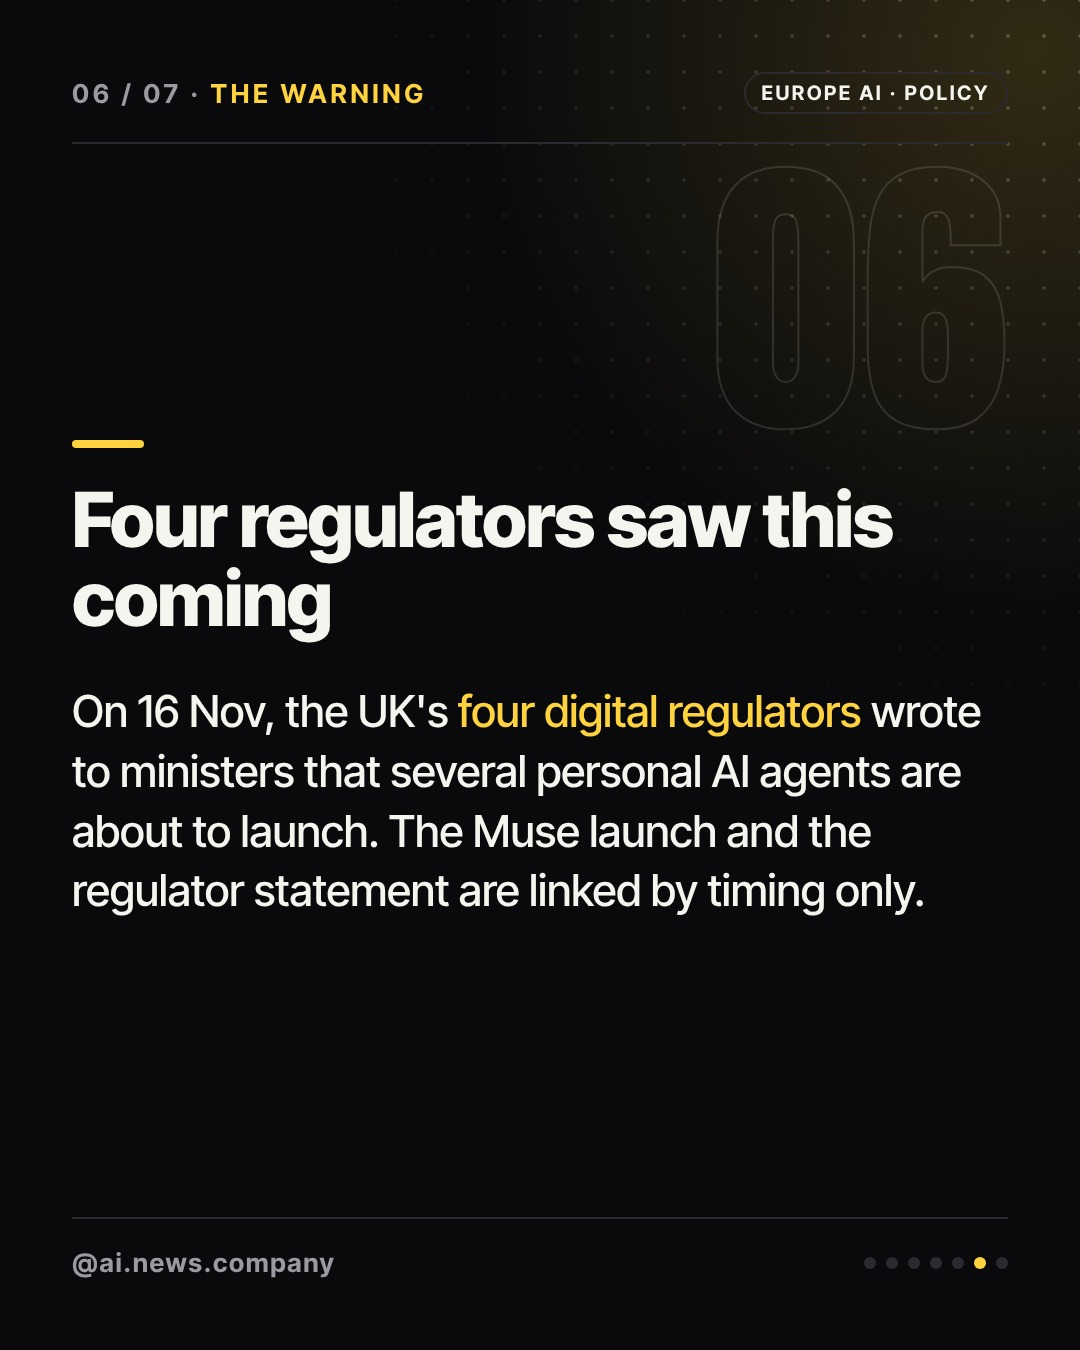
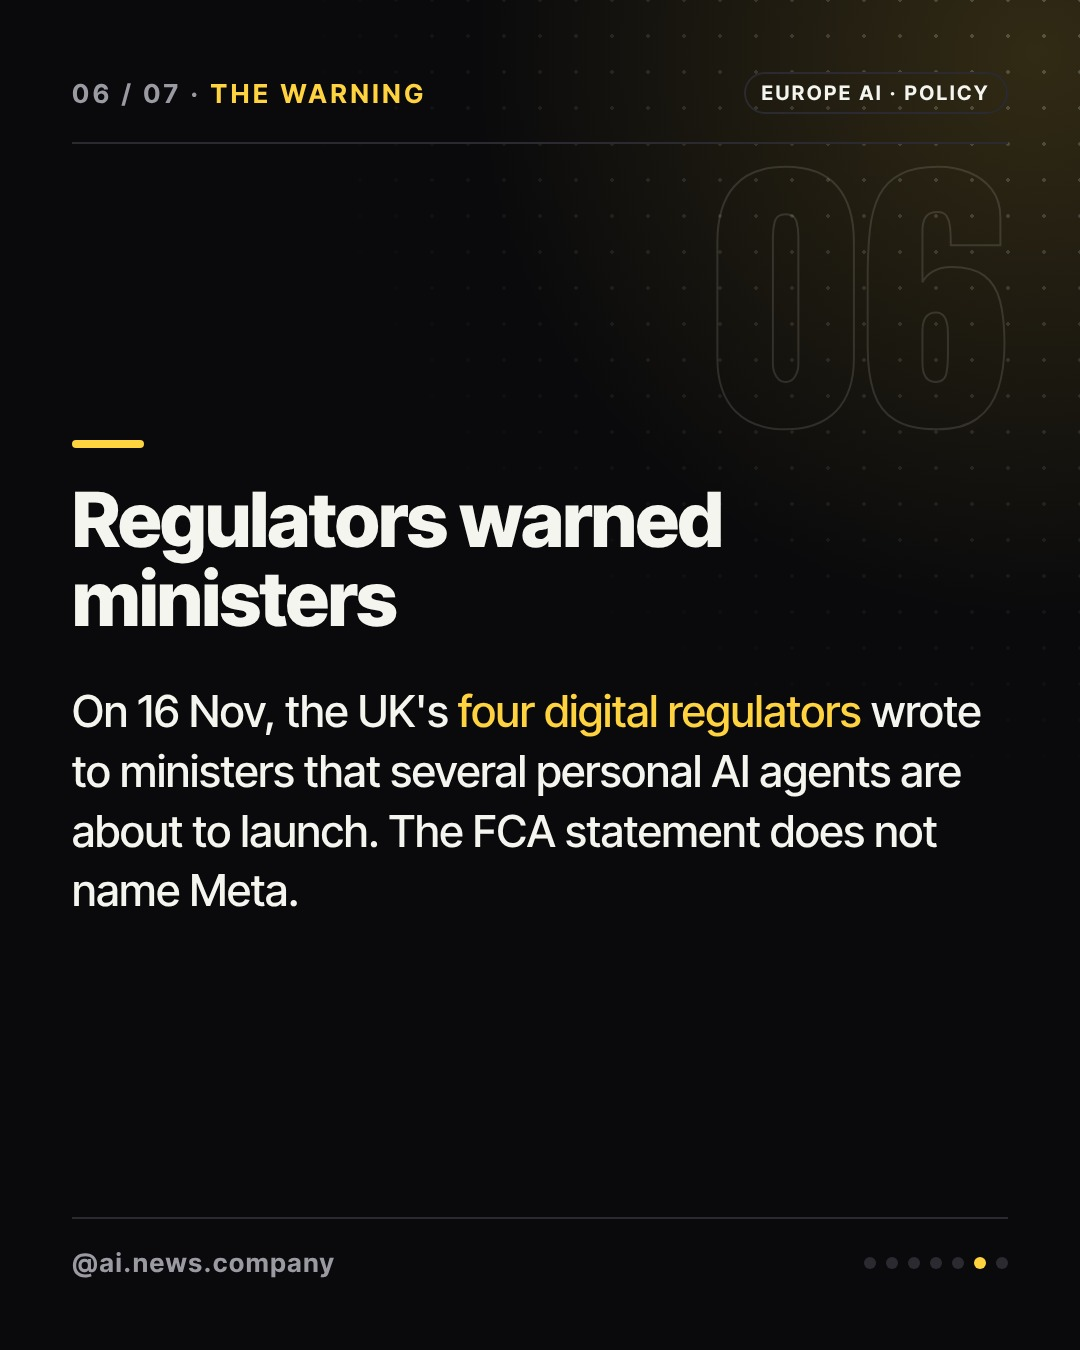
wip: meta-muse blocked after 2 fact-check rounds

Changed region(s): [[0.0611, 0.5911, 0.8861, 0.6844], [0.0611, 0.3422, 0.825, 0.4978]]

diff --git a/posts/2026-11-24-meta-muse-uk-fca/review-hook.md b/posts/2026-11-24-meta-muse-uk-fca/review-hook.md
@@ -1,26 +1,32 @@
-# Hook review: 2026-11-24-meta-muse-uk-fca
+# Hook review (round 2): 2026-11-24-meta-muse-uk-fca
 
-Verdict: PASS (score 7/10), chosen hook is the best option. Better option: none.
+Verdict: PASS
+Score: 7/10
+Better option: none (chosen option 0 is the best)
 
-Chosen hook: "AI AGENTS MAY NEED A LICENCE" (type: claim)
+Chosen hook: "AI AGENTS MAY NEED A **LICENCE**" (claim)
 
-## Scores for the chosen hook
-- Clear in under 2 seconds: 8. Short, plain words, and the yellow LICENCE is the focal point. The fallback background is plain but readable and the text has good contrast.
-- Curiosity: 6. "May need a licence" raises a question (whose licence, who says so?), but it is generic.
-- Concrete number or name: 5. No number or name on the cover. There is no UK, FCA or Meta. The "EUROPE AI" tag is the only location cue.
-- Promise the slides keep: 8. Slide 4 carries it (FCA: some personal agent products "may need authorisation" at launch, others may grow into it). Slide 5 and the caption say the Muse launch and the FCA statement are linked by timing only. "May" matches the source. Two weak spots: it does not say the regulator is British, and slides 2-4 are about Muse, so the licence payoff only arrives on slide 5 (of 7).
-- Reader stake: 6. It suggests agent products could face new rules, but the reader does not learn what changes for them.
+## Scores
+- Clear in under 2 seconds: 8. Short and readable. Slide 01 renders cleanly on the fallback background with the yellow LICENCE word as the focal point.
+- Curiosity: 7. It raises the question of which agents and who says so. It reads as a news hook rather than clickbait.
+- Concrete number or name: 4. It has no number and no name. It does not say UK, FCA or Meta. "Licence" is the only specific word.
+- Promise the slides keep: 8. Slide 04 says some personal agent products will need authorisation at launch and others later. The "may" is honest. Slide 05 says the FCA statement does not name Meta, so the cover does not oversell. One weakness is that slides 02 and 03 are about Meta's Muse, and the licence payoff only arrives on slide 04. The reader has to swipe past three slides about shopping first, and slide 02 does not connect back to the cover.
+- Reader stake: 6. The reader gets the sense that the AI agents they might use are being regulated. The cover does not say what changes for them, and the slides do not either. This is a plus the hook lacks, not a failure.
 
-## Compare with the other options
-- Option 1, "150,000 ITEMS, ONE META AGENT" (number): accurate (Argos, 150,000+ products) but unclear in 2 seconds, and "items" is vague. It sells a feature, not the news. Label honest.
-- Option 2, "META'S AI AGENT NEEDS YOUR OK" (labeled reader-impact): it has a name and a small stake, and it is true (slide 3, buying needs approval). It is a thin, low-curiosity product detail and does not lead with the news. The label is acceptable because the hook speaks to what the user controls, but it is the mildest form of reader-impact.
-- Option 3, "MUSE HITS THE UK AS RULES LOOM" (claim): "Muse" is an unexplained name. "Rules loom" hints that Meta is being regulated, which the slides explicitly deny. Weakest fit for the promise.
-- Option 0 is the best balance of clarity, curiosity and a promise that is kept. No option is clearly stronger.
+Total is about 6.6, rounded to 7.
 
-## hook_types check
-Labels are honest. The number label, the reader-impact label and the claim labels all match their text. The reader-impact label on the "needs your OK" option is on the generous side but defensible. `hook_pick_reason` is honest and explains why reader-impact was not chosen. No "No reader-impact hook:" line is needed because one option is reader-impact.
+## hook_types honesty
+- Option 0 "claim": honest.
+- Option 1 "number": honest. It uses 150,000+ Argos products, which slide 02 carries.
+- Option 2 "reader-impact": honest. It is about the reader's approval, and slide 03 supports it. It is a minor product detail, and "needs your OK" is weak as news.
+- Option 3 "claim": acceptable. "Rules loom" is vague and edges toward implying Meta is being regulated, which slide 05 denies.
 
-## Suggested fixes (optional, not blocking)
-1. Add a place or authority to give the cover a concrete anchor, for example "UK WATCHDOG: AI AGENTS MAY NEED A **LICENCE**" (check that it fits two lines in the renderer) or "UK AI AGENTS MAY / NEED A **LICENCE**". That would likely lift the score to 8 or higher.
-2. Keep "may". Do not tighten it to "need".
-3. Consider moving the regulator slide earlier, or add a line on slide 2 hinting that a regulator weighed in the same day. This is so the cover's promise is not held back until slide 5.
+## Compared with the other options
+- Option 1 has a number and a name, but it sells a feature and is unclear in 2 seconds.
+- Option 2 has the Meta name and a reader angle, but the approval fact is minor and the hook is less curious.
+- Option 3 is vaguer and closer to an unsupported implication.
+
+Option 0 is the strongest hook the slides fully support. hook_pick_reason is substantive and consistent with these findings. A reader-impact option exists, so the "No reader-impact hook:" line is not required.
+
+## Optional note, not a fail
+Adding "UK" (for example "UK AI AGENTS MAY NEED A **LICENCE**") would add a concrete name and a link to the UK launch on slide 02, if it fits the layout.

diff --git a/posts/2026-11-24-meta-muse-uk-fca/review-fact.md b/posts/2026-11-24-meta-muse-uk-fca/review-fact.md
@@ -1,16 +1,17 @@
-# Fact review: 2026-11-24-meta-muse-uk-fca
+# Fact review, round 2: FAIL
 
-Verdict: FAIL (minor wording fixes). Both TNW articles were opened with scripts/article.mjs. Titles, outlet and date match.
+Both TNW articles were opened with scripts/article.mjs. Everything checks out except one claim.
 
-## Required fixes
-1. Slide 3, "topped Google's and Apple's free app charts". The article says the app ranked "first and second" on Google's and Apple's free app charts. It did not top both. Fix: "ranked first and second on Google's and Apple's free app charts, the Guardian reported."
-2. Caption, first line, "set out rules for AI agents". The FCA article says it "set out its expectations"; it did not issue rules. (The Muse article loosely says "rules", but the FCA article is the primary source.) Fix: "set out expectations for AI agents".
-3. Slide 5 title, "Four regulators saw this coming". The letter warned that several personal AI agents are about to launch and does not mention Muse. "Saw this coming" implies they foresaw Meta's launch. Fix: "Regulators warned ministers" or "Four regulators warned of agent launches".
-4. Slides 4 and 5, caption, threads: "The Muse launch and the regulator statement are linked by timing only". Neither article says this. The Muse article says "British regulators were waiting at the door" and notes that the competition watchdog secured changes to Meta's terms and the data regulator is monitoring the rollout. Fix: say "Neither article says the FCA statement was aimed at Muse" or "The FCA statement does not name Meta". Do not assert "timing only".
+## Issue (1)
+- Where: slide 5 ("The FCA statement does not name Meta."), caption ("The FCA statement does not name Meta."), threads_caption ("Its statement does not name Meta.")
+- Problem: Neither article says this. The Next Web FCA piece never mentions Meta, but that is not evidence about the FCA's own statement, which we did not read. It is an absence claim that nothing in the sources confirms. The Muse article says the FCA rules "name social media platforms directly", which makes the claim more doubtful.
+- Fix: Change it to something the sources show. For example: "The Next Web's FCA report does not mention Meta." Or "The FCA's expectations cover banks, tech providers and social media platforms." (fact 7: "covering banks, tech providers, and social media platforms alike"). Make the same change in the caption and threads_caption. Alternatively drop the sentence.
 
-## Minor, optional
-- Slide 4 says "may need authorisation" and "may grow into it". The article says some products "will need" it at launch and others "will grow into needing it later". "May" is a safe hedge, but it is softer than the source. Consider "Some personal agent products will need authorisation at launch; others will grow into it."
-- "Stripe, payments company" is widely known background and is fine.
-
-## Confirmed
-Muse arrived in the UK today. Muse connects to apps and acts. Basket, flight, refund and presents. Partners: Sainsbury's, Argos (more than 150,000 products), M&S, Currys, Debenhams, easyJet. Standalone app, web and WhatsApp. Link wallet from Stripe, and buying needs approval. US launch in September, Guardian cited. FCA set out expectations on Tuesday (24 Nov 2026 is a Tuesday). A technology-provider label does not remove the need for authorisation. On 16 Nov the four digital regulators wrote to ministers.
+## Verified OK
+- Slide 1: Muse arrived in the UK today. Muse connects to other apps and acts, unlike Meta AI. "Festive" became "Christmas" in the post, which is acceptable.
+- Slide 2: basket, flight, refund and presents are all in the article. The partner list is correct. Argos has more than 150,000 products connected.
+- Slide 3: Link is Stripe's wallet for AI agents. Buying needs the user's approval. Muse runs as an app, on the web and in WhatsApp. Ranked first and second on Google's and Apple's free charts in the US (September launch), per the Guardian.
+- Slide 4: FCA set out expectations the same day. Some products need authorisation at launch and others later. The "technology provider" label does not remove the need for authorisation. The "UK's financial regulator" description is plain background.
+- Slide 5: On 16 Nov the four digital regulators wrote to ministers that several personal AI agents are about to launch.
+- Sources: outlet, titles and dates match. Both articles were published 2026-11-24.
+- Cover: "AI agents may need a licence" matches the TNW headline and is not overstated.

diff --git a/posts/2026-11-24-meta-muse-uk-fca/review-brand.md b/posts/2026-11-24-meta-muse-uk-fca/review-brand.md
@@ -1,15 +1,11 @@
-# Brand/safety review: 2026-11-24-meta-muse-uk-fca
+# Brand safety review, round 2: 2026-11-24-meta-muse-uk-fca
 
 Verdict: PASS
 
-Checks
-- Cover: fallback graphic background (grid and accent glow), no person, no logo, no readable image text. Pass.
-- Reference copying: wording and layout are original. Pass.
-- Credit: caption, threads_caption and slide 7 all name The Next Web and the article title. Pass.
-- Affiliate/sponsor: none in slides, caption or threads_caption. Pass.
-- DESIGN.md: only ink, paper, muted and accent colors, plus Anton and Inter Tight. One accent word on the cover, at most 2 accents per body slide. The tag is EUROPE AI · POLICY. Pass.
-- Tone and hook: no mocking. The hook uses "may", and slides 4 and 5 support it. The post says it does not claim Muse needs a licence, and says the two items are linked by timing only. Pass.
-
-Non-blocking suggestions
-1. Slide 6 title "Four regulators saw this coming" can imply the regulators foresaw Muse, while the body says the link is timing only. Consider "Regulators flagged agents days earlier".
-2. The caption says "set out rules"; slide 5 and the source say "expectations". Consider matching them.
+- Cover: fallback graphic background (grid, accent glow). No person, logo or readable text beyond the template tag, headline and handle.
+- Originality: wording and layout are original. No reference-account copy found.
+- Credit: caption and threads_caption both name The Next Web with article titles. The last slide lists both sources.
+- Affiliate: no affiliate, referral or tracking links, and no sponsored-tool mentions. Stripe Link appears only as a news fact.
+- Design: only ink, paper, muted, accent and line colors, in Anton and Inter Tight. Accent use is within limits.
+- Tone and hook: neutral. The hook says "may", and slides 5 and 6 support it. The post says twice that the FCA statement does not name Meta. It does not claim Muse needs a licence.
+- Minor, non-blocking: slide 5 uses straight quotes around "technology provider".
